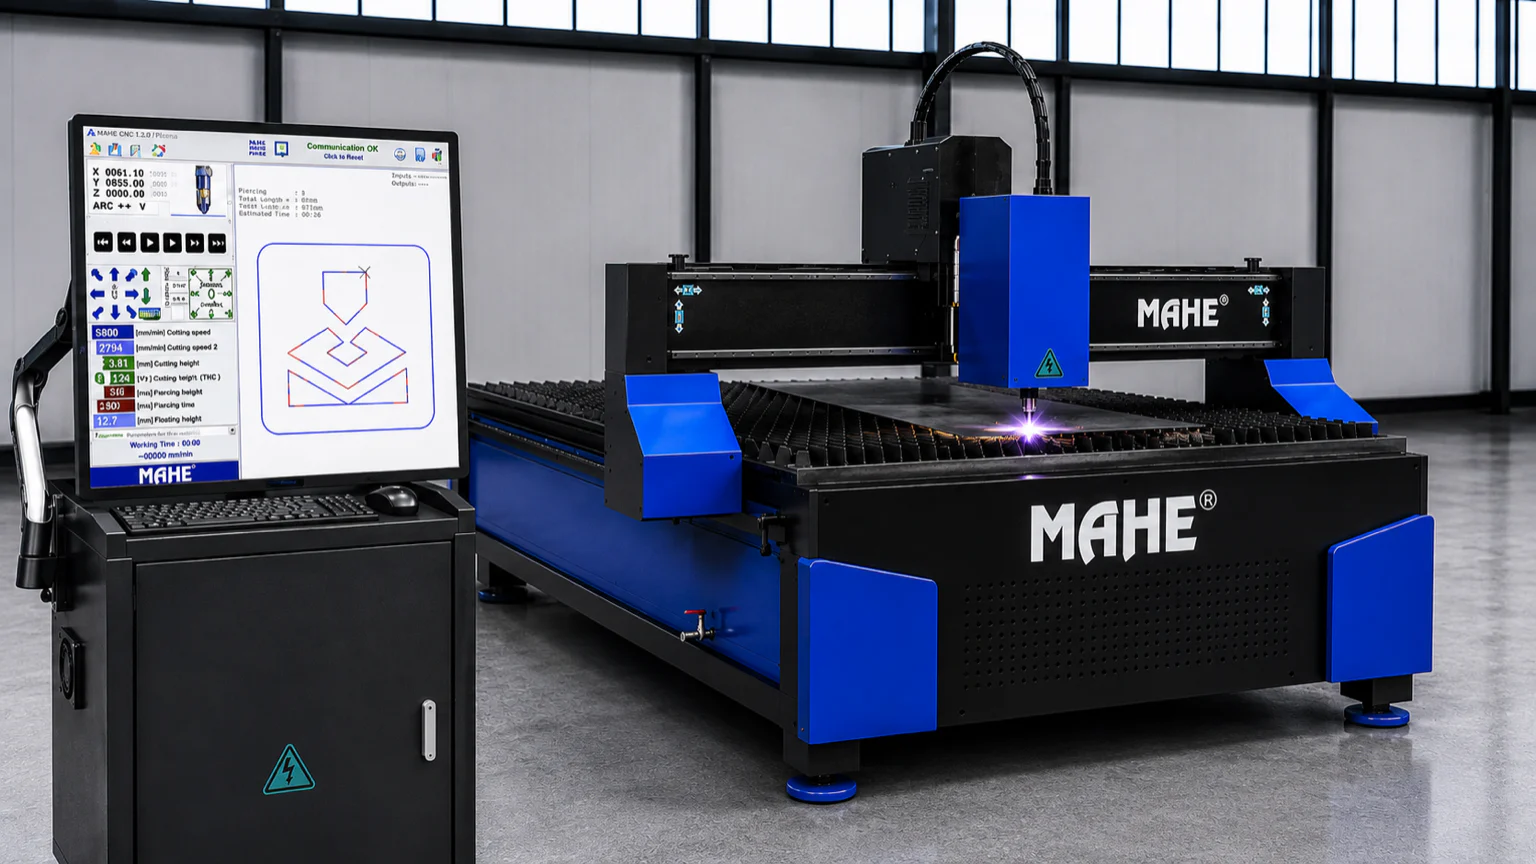
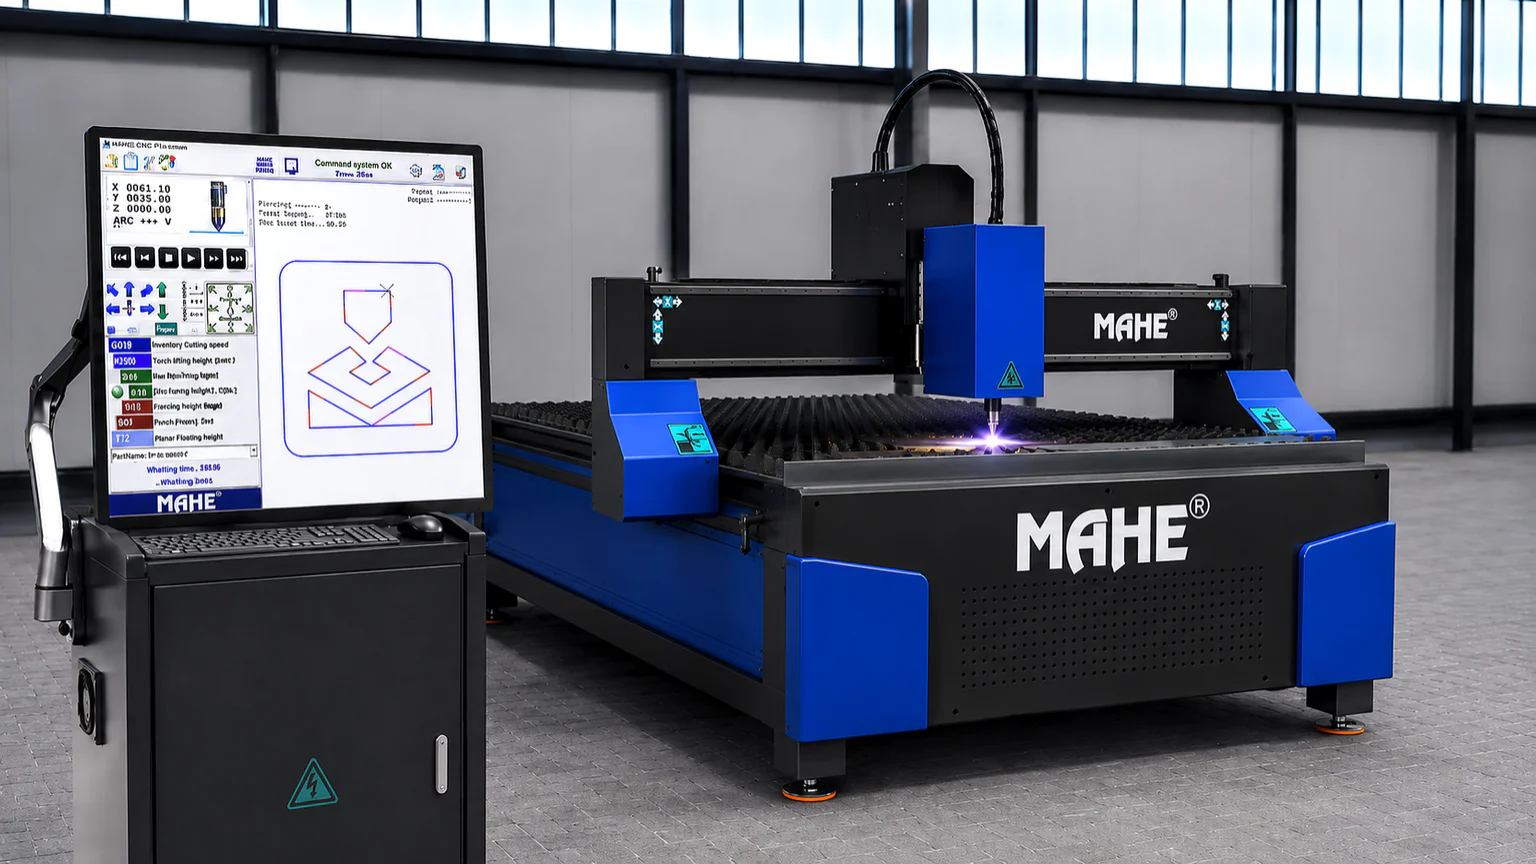
MPT-Folie wieder im Band, jetzt in 3344 px
Neue Vorlage vom Inhaber: MAHE_MPT_3001_HQ_3344x1882.png, 5,5 MB. Damit
entsteht erstmals die 2048er Stufe - die vorige Fassung hatte 1672 px und
brach schon bei 1536 ab. Auf einem Bildschirm mit doppelter Punktdichte waehlt
der Browser jetzt hero-mpt-2048.webp; nachgemessen bei dpr 2 und 1440 px
Fensterbreite ist genau das der Fall.

  640  -> 640 x 360    33 kB
  1000 -> 1000 x 562   67 kB
  1536 -> 1536 x 864  139 kB
  2048 -> 2048 x 1152 214 kB

core.py::HERO_SLIDES steht wieder auf ["hero", "hero-mpt"]. Weil das Band
seit gestern aus dieser Liste gebaut wird, kamen Punkte, Zeitgeber, die
Auszeichnung als Karussell und die Zaehlung "Bild 1 von 2" von selbst zurueck -
am Markup war nichts zu tun.

Geprueft bei 375 und 1440 px:
  - beide Folien geladen, Folie 2 mit der 2048er Stufe
  - Band 950 px in beiden Zustaenden, springt beim Umschalten nicht
  - 16:9 gegen 3:2 ausgeglichen: 74 px oben, 74 px unten
  - Ueberschrift auf der hellen Folie lesbar, auf dem Handy die kleine
    Flaeche hinter der Schrift
  - kein seitlicher Ueberlauf, zwei Punkte, Beschriftung stimmt

check.py, audit.py, verify_mahe.py und hero.py --pruefen je 0 Fehler.

diff --git a/fr/index.html b/fr/index.html
@@ -101,7 +101,7 @@
 </aside>
 <main id="main">
 
-<section class="hero"><div class="hero-slide active" role="group" aria-roledescription="slide" aria-label="Image 1 sur 1"><div class="hero-inner"><img class="hero-photo" src="/assets/img/hero-1536.webp?v=4fab8153" srcset="/assets/img/hero-640.webp?v=7de5f3d2 640w, /assets/img/hero-1000.webp?v=fa3d0fe1 1000w, /assets/img/hero-1536.webp?v=4fab8153 1536w" sizes="100vw" width="1536" height="1024" fetchpriority="high" decoding="async" alt="MAHE HyperMIG SX: Schweissanlagen bei VES-TECH Swiss" onerror="this.onerror=null;this.removeAttribute(&#39;srcset&#39;);this.src=&#39;/assets/img/hero.jpg&#39;"></div></div></section>
+<section class="hero" data-hero aria-roledescription="carousel" aria-label="VES-TECH Swiss"><div class="hero-slide active" role="group" aria-roledescription="slide" aria-label="Image 1 sur 2"><div class="hero-inner"><img class="hero-photo" src="/assets/img/hero-1536.webp?v=4fab8153" srcset="/assets/img/hero-640.webp?v=7de5f3d2 640w, /assets/img/hero-1000.webp?v=fa3d0fe1 1000w, /assets/img/hero-1536.webp?v=4fab8153 1536w" sizes="100vw" width="1536" height="1024" fetchpriority="high" decoding="async" alt="MAHE HyperMIG SX: Schweissanlagen bei VES-TECH Swiss" onerror="this.onerror=null;this.removeAttribute(&#39;srcset&#39;);this.src=&#39;/assets/img/hero.jpg&#39;"></div></div><div class="hero-slide light" role="group" aria-roledescription="slide" aria-label="Image 2 sur 2"><div class="hero-inner"><img class="hero-photo" src="/assets/img/hero-mpt-2048.webp?v=9a04dafb" srcset="/assets/img/hero-mpt-640.webp?v=ce13cc94 640w, /assets/img/hero-mpt-1000.webp?v=e2d4e6e7 1000w, /assets/img/hero-mpt-1536.webp?v=3233e2a0 1536w, /assets/img/hero-mpt-2048.webp?v=9a04dafb 2048w" sizes="100vw" width="3344" height="1882" loading="eager" fetchpriority="low" decoding="async" alt="MAHE MPT: CNC-Plasmaschneidtisch mit Bedienkonsole" onerror="this.onerror=null;this.removeAttribute(&#39;srcset&#39;);this.src=&#39;/assets/img/hero-mpt.jpg&#39;"><div class="hero-txt"><span class="hk">Nouveau dans la gamme</span><h2>MAHE MPT · table de découpe plasma CNC</h2><p>3000 × 1500 mm ou 2500 × 1250 mm · Theta 060 / 120 / 180 HSC · MyPlasm CNC</p><a class="btn pri" href="/fr/produits/decoupe-plasma/mpt-3001/">Voir la table de découpe</a></div></div></div><div class="hero-dots" role="tablist" aria-label="Autres images"><button class="hdot active" type="button" role="tab" aria-selected="true" data-i="0" aria-label="Image 1 sur 2"></button><button class="hdot" type="button" role="tab" aria-selected="false" data-i="1" aria-label="Image 2 sur 2"></button></div></section>
 <div class="hero-cta"><div class="wrap"><div class="cta-row">
   <a class="btn pri" href="/fr/contact/">Demander un technicien →</a>
   <a class="btn ghost light" href="/fr/produits/">Voir les systèmes MAHE</a>

diff --git a/it/index.html b/it/index.html
@@ -101,7 +101,7 @@
 </aside>
 <main id="main">
 
-<section class="hero"><div class="hero-slide active" role="group" aria-roledescription="slide" aria-label="Immagine 1 di 1"><div class="hero-inner"><img class="hero-photo" src="/assets/img/hero-1536.webp?v=4fab8153" srcset="/assets/img/hero-640.webp?v=7de5f3d2 640w, /assets/img/hero-1000.webp?v=fa3d0fe1 1000w, /assets/img/hero-1536.webp?v=4fab8153 1536w" sizes="100vw" width="1536" height="1024" fetchpriority="high" decoding="async" alt="MAHE HyperMIG SX: Schweissanlagen bei VES-TECH Swiss" onerror="this.onerror=null;this.removeAttribute(&#39;srcset&#39;);this.src=&#39;/assets/img/hero.jpg&#39;"></div></div></section>
+<section class="hero" data-hero aria-roledescription="carousel" aria-label="VES-TECH Swiss"><div class="hero-slide active" role="group" aria-roledescription="slide" aria-label="Immagine 1 di 2"><div class="hero-inner"><img class="hero-photo" src="/assets/img/hero-1536.webp?v=4fab8153" srcset="/assets/img/hero-640.webp?v=7de5f3d2 640w, /assets/img/hero-1000.webp?v=fa3d0fe1 1000w, /assets/img/hero-1536.webp?v=4fab8153 1536w" sizes="100vw" width="1536" height="1024" fetchpriority="high" decoding="async" alt="MAHE HyperMIG SX: Schweissanlagen bei VES-TECH Swiss" onerror="this.onerror=null;this.removeAttribute(&#39;srcset&#39;);this.src=&#39;/assets/img/hero.jpg&#39;"></div></div><div class="hero-slide light" role="group" aria-roledescription="slide" aria-label="Immagine 2 di 2"><div class="hero-inner"><img class="hero-photo" src="/assets/img/hero-mpt-2048.webp?v=9a04dafb" srcset="/assets/img/hero-mpt-640.webp?v=ce13cc94 640w, /assets/img/hero-mpt-1000.webp?v=e2d4e6e7 1000w, /assets/img/hero-mpt-1536.webp?v=3233e2a0 1536w, /assets/img/hero-mpt-2048.webp?v=9a04dafb 2048w" sizes="100vw" width="3344" height="1882" loading="eager" fetchpriority="low" decoding="async" alt="MAHE MPT: CNC-Plasmaschneidtisch mit Bedienkonsole" onerror="this.onerror=null;this.removeAttribute(&#39;srcset&#39;);this.src=&#39;/assets/img/hero-mpt.jpg&#39;"><div class="hero-txt"><span class="hk">Nuovo in gamma</span><h2>MAHE MPT · tavolo di taglio al plasma CNC</h2><p>3000 × 1500 mm o 2500 × 1250 mm · Theta 060 / 120 / 180 HSC · MyPlasm CNC</p><a class="btn pri" href="/it/prodotti/taglio-plasma/mpt-3001/">Vai al tavolo di taglio</a></div></div></div><div class="hero-dots" role="tablist" aria-label="Altre immagini"><button class="hdot active" type="button" role="tab" aria-selected="true" data-i="0" aria-label="Immagine 1 di 2"></button><button class="hdot" type="button" role="tab" aria-selected="false" data-i="1" aria-label="Immagine 2 di 2"></button></div></section>
 <div class="hero-cta"><div class="wrap"><div class="cta-row">
   <a class="btn pri" href="/it/contatto/">Richiedi un tecnico →</a>
   <a class="btn ghost light" href="/it/prodotti/">Vedi i sistemi MAHE</a>

diff --git a/index.html b/index.html
@@ -101,7 +101,7 @@
 </aside>
 <main id="main">
 
-<section class="hero"><div class="hero-slide active" role="group" aria-roledescription="slide" aria-label="Bild 1 von 1"><div class="hero-inner"><img class="hero-photo" src="/assets/img/hero-1536.webp?v=4fab8153" srcset="/assets/img/hero-640.webp?v=7de5f3d2 640w, /assets/img/hero-1000.webp?v=fa3d0fe1 1000w, /assets/img/hero-1536.webp?v=4fab8153 1536w" sizes="100vw" width="1536" height="1024" fetchpriority="high" decoding="async" alt="MAHE HyperMIG SX: Schweissanlagen bei VES-TECH Swiss" onerror="this.onerror=null;this.removeAttribute(&#39;srcset&#39;);this.src=&#39;/assets/img/hero.jpg&#39;"></div></div></section>
+<section class="hero" data-hero aria-roledescription="carousel" aria-label="VES-TECH Swiss"><div class="hero-slide active" role="group" aria-roledescription="slide" aria-label="Bild 1 von 2"><div class="hero-inner"><img class="hero-photo" src="/assets/img/hero-1536.webp?v=4fab8153" srcset="/assets/img/hero-640.webp?v=7de5f3d2 640w, /assets/img/hero-1000.webp?v=fa3d0fe1 1000w, /assets/img/hero-1536.webp?v=4fab8153 1536w" sizes="100vw" width="1536" height="1024" fetchpriority="high" decoding="async" alt="MAHE HyperMIG SX: Schweissanlagen bei VES-TECH Swiss" onerror="this.onerror=null;this.removeAttribute(&#39;srcset&#39;);this.src=&#39;/assets/img/hero.jpg&#39;"></div></div><div class="hero-slide light" role="group" aria-roledescription="slide" aria-label="Bild 2 von 2"><div class="hero-inner"><img class="hero-photo" src="/assets/img/hero-mpt-2048.webp?v=9a04dafb" srcset="/assets/img/hero-mpt-640.webp?v=ce13cc94 640w, /assets/img/hero-mpt-1000.webp?v=e2d4e6e7 1000w, /assets/img/hero-mpt-1536.webp?v=3233e2a0 1536w, /assets/img/hero-mpt-2048.webp?v=9a04dafb 2048w" sizes="100vw" width="3344" height="1882" loading="eager" fetchpriority="low" decoding="async" alt="MAHE MPT: CNC-Plasmaschneidtisch mit Bedienkonsole" onerror="this.onerror=null;this.removeAttribute(&#39;srcset&#39;);this.src=&#39;/assets/img/hero-mpt.jpg&#39;"><div class="hero-txt"><span class="hk">Neu im Programm</span><h2>MAHE MPT · CNC-Plasmaschneidtisch</h2><p>3000 × 1500 mm oder 2500 × 1250 mm · Theta 060 / 120 / 180 HSC · MyPlasm CNC</p><a class="btn pri" href="/produkte/plasmaschneiden/mpt-3001/">Zum Schneidtisch</a></div></div></div><div class="hero-dots" role="tablist" aria-label="Weitere Bilder"><button class="hdot active" type="button" role="tab" aria-selected="true" data-i="0" aria-label="Bild 1 von 2"></button><button class="hdot" type="button" role="tab" aria-selected="false" data-i="1" aria-label="Bild 2 von 2"></button></div></section>
 <div class="hero-cta"><div class="wrap"><div class="cta-row">
   <a class="btn pri" href="/kontakt/">Technik direkt anfragen →</a>
   <a class="btn ghost light" href="/produkte/">MAHE Systeme ansehen</a>

diff --git a/build/core.py b/build/core.py
@@ -98,10 +98,11 @@ WORKSHOP = {
 # das Umschalten und der Zeitgeber. Zwei oder mehr, und alles kommt zurueck -
 # ohne dass am Markup etwas geaendert werden muesste.
 #
-# 05.08.2026: Die MPT-Folie ist auf Wunsch des Inhabers heraus. Das gelieferte
-# Bild ueberzeugte ihn nicht. Wieder aufnehmen heisst: "hero-mpt" hier wieder
-# eintragen, ein neues Bild mit build/hero.py einspielen, bauen, pushen.
-HERO_SLIDES = ["hero"]
+# Verlauf: Am 05.08.2026 war die MPT-Folie kurz heraus, weil das damals
+# gelieferte Bild mit 1672 px zu klein war und auf feinen Bildschirmen weich
+# wirkte. Mit der Fassung 3344 x 1882 px ist sie wieder drin - jetzt entsteht
+# auch die 2048er Stufe, und damit reicht es fuer die doppelte Punktdichte.
+HERO_SLIDES = ["hero", "hero-mpt"]
 
 # Kartenverweis auf die Werkstatt. Steht als hasMap im LocalBusiness.
 MAP_URL = ("https://www.google.com/maps/search/?api=1&query="
